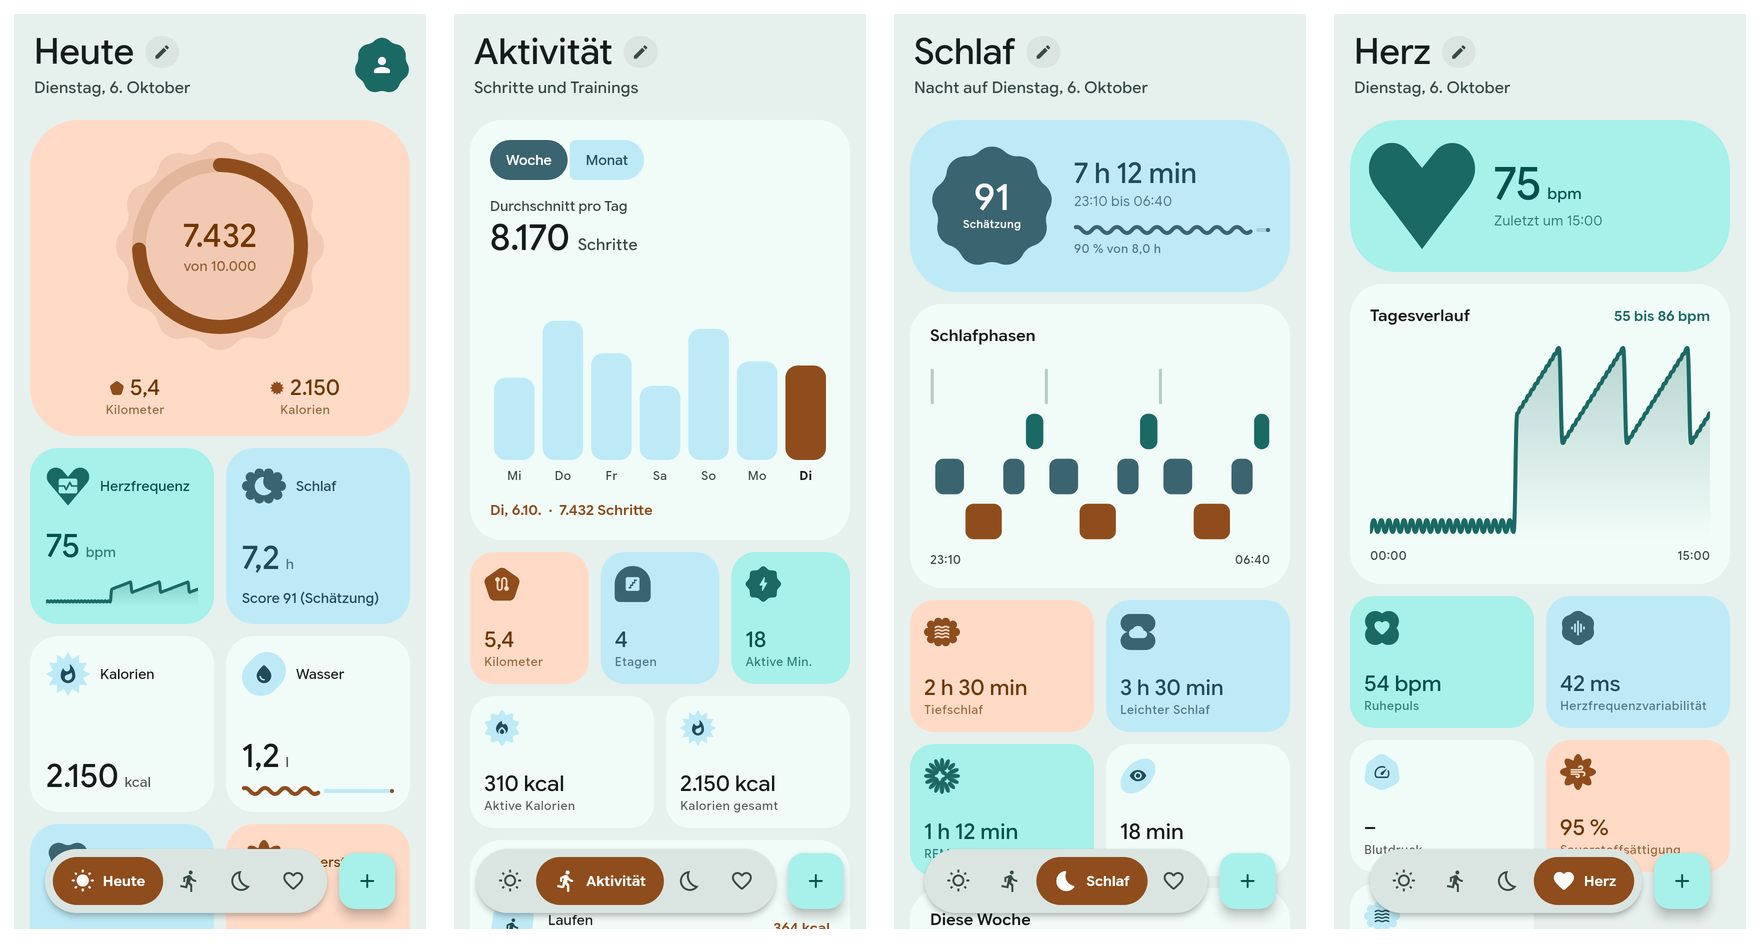
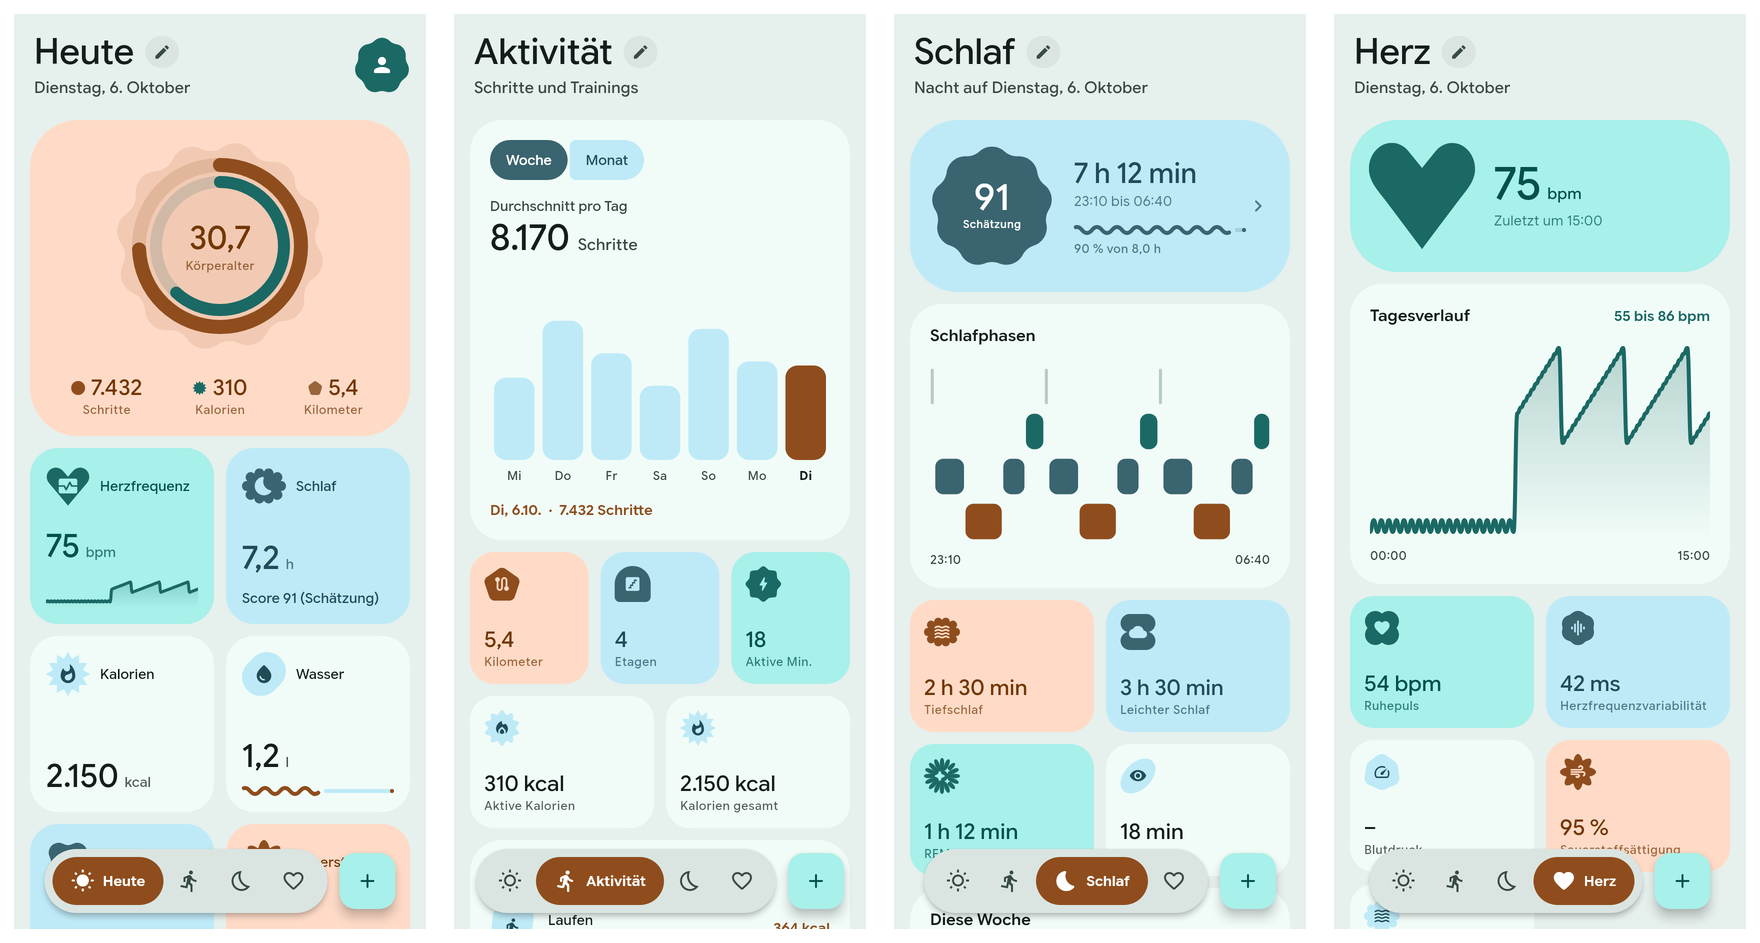
docs: render the README images again and describe the sleep page
The hero and the period tab images show the current steps tile and the
floating tabs; a new image shows the body age page.

Changed region(s): [[0.0625, 0.1845, 0.1875, 0.3383], [0.0312, 0.3998, 0.2188, 0.4613]]

diff --git a/README.md b/README.md
@@ -30,7 +30,7 @@ flowchart TD
     subgraph UI ["Interface Layer"]
         Shell["App Shell<br/><b>Floating Navigation Bar & FAB Menu</b>"]
         Boards["Tile Boards<br/><b>Heute, Aktivität, Schlaf, Herz</b>"]
-        Detail["Metric Detail Page<br/><b>Heute to Gesamt, Entries</b>"]
+        Detail["Detail Pages<br/><b>Period Tabs, Entries, Sleep, Body Age</b>"]
         Sheet["Entry Sheet<br/><b>Water, Weight, Meals</b>"]
     end
 
@@ -43,6 +43,7 @@ flowchart TD
     subgraph Data ["Data Layer (pure Dart)"]
         Builder["buildSnapshot<br/><b>Raw Readings to 30 Days</b>"]
         Period["buildPeriod<br/><b>Averages, Bars, Comparison</b>"]
+        Age["estimateBodyAge<br/><b>Years per Factor, 30 Days</b>"]
         History["HistoryArchive<br/><b>One Value per Day, 10 Years</b>"]
         Store["FileJsonStore<br/><b>Private App Directory</b>"]
     end
@@ -60,6 +61,7 @@ flowchart TD
     Boards --> SettingsCtrl
     Detail --> HealthCtrl
     Detail --> Period
+    Detail --> Age
     Sheet --> HealthCtrl
     Shell --> Palette
     HealthCtrl --> Repo
@@ -109,6 +111,7 @@ sequenceDiagram
 - **Steps Tile with Two Rings and a Body Age:** The large steps tile draws the steps as the outer ring and the **active calories** as the inner one, each against its goal, with steps, calories and distance underneath. In the middle is the **body age**: the real age plus or minus some years for steps, intensity minutes, sleep duration, sleep rhythm, resting heart rate, heart rate variability, body mass index or body fat, blood pressure and strength training over the last 30 days. Tapping it opens a page that lists every factor with your value, the value it is judged against and the years it adds or takes. It needs the **date of birth** from the profile.
 - **Latest Value for Rare Measurements:** Weight, blood pressure, the one resting heart rate a day and similar show the most recent reading, on a tile and on the detail page's **Heute** tab, with its day instead of a dash when there is none today. Totals such as steps stay strictly on today.
 - **Period Tabs on Every Metric:** Tapping a tile opens **Heute**, **Gestern**, **Woche**, **Monat**, **Jahr** and **Gesamt** in a toolbar floating at the bottom of the page, each with its average, a bar chart, the highest and lowest value, a sentence comparing it to the span before, and arrows to page back. Sleep is the exception: its tile opens the detailed sleep page from everywhere.
+- **Detailed Sleep Page:** For the selected night: time asleep and in bed, efficiency, the stages as a hypnogram and each against a guide range, bedtime and waking of the last 30 nights, the sleep debt of seven nights, the pulse during the night, and the night's vitals against your own usual range.
 - **Ten Years of History:** One value per day and metric is kept in one **JSON** file per calendar year. Older data already in Health Connect is loaded once, in **90-day** stretches.
 - **Edit Mode:** The pencil next to a page title makes the tiles wiggle. Hold one and drag it; the others move out of the way and the order is saved per page. On **Aktivität**, **Schlaf** and **Herz** a **minus** takes a tile off the page and a list below the board brings it back; the compact measurement tiles there can be enlarged to the wide form with the last seven days.
 - **All Measurements on Demand:** A switch that only appears in edit mode appends every metric with data to the **Heute** page, grouped by kind.
@@ -118,15 +121,17 @@ sequenceDiagram
 - **Liquid Glass:** A switch in the profile turns the navigation bar and the add button into refracting glass and the tiles into translucent glass over soft colour fields. The selected pill becomes a glass lens while it is dragged along the bar, and the entries of the add button flow out of it as drops. Shapes, colours and motion stay Material 3 Expressive. Off by default. ***Tested*** by widget tests in a blurred fallback and by screen recordings on a Pixel 10 Pro.
 - **Background Refresh:** A **WorkManager** task refreshes the stored data about once an hour, so the app opens with current values and no day is lost if it stays closed for longer than Health Connect's 30-day window.
 - **Haptics:** Distinct feedback for selecting, tapping, lifting a tile and confirming.
-- **Spring Motion and Shapes:** Page changes, tile movement and the container transform into a detail page run on **Material 3 Expressive** spring tokens; badges and the profile button use the expressive shape set.
+- **Spring Motion and Shapes:** Page changes, tile movement and the container transform into a detail page run on **Material 3 Expressive** spring tokens; badges and the profile button use the expressive shape set. The shape behind the rings of the steps tile turns once in **90 seconds** and stands still when the system switches animations off.
 
-![Period tabs on the steps metric](readmestuff/detail.png)
+![The floating period tabs on the steps metric: Heute, Woche, Jahr and Gesamt](readmestuff/detail.png)
+
+![The steps tile with both rings and the body age, and the page that explains the age factor by factor](readmestuff/age.png)
 
 ![Edit mode with a lifted tile, the list of tiles to add, tiles in both sizes, and the dark theme](readmestuff/editing.png)
 
 ![Liquid Glass: the Heute page, the add menu open, the pill being dragged along the bar, and the dark theme](readmestuff/glass.png)
 
-The Liquid Glass images show the blurred fallback, because the test renderer has no Impeller. On a phone the bar, the dragged pill and the add button also bend what is behind them.
+The Liquid Glass images show the blurred fallback, because the test renderer has no Impeller. On a phone the bar, the dragged pill and the add button also bend what is behind them. The edit mode and Liquid Glass images were rendered before the steps tile got its second ring and the body age, and still show the earlier tile.
 
 ---
 
